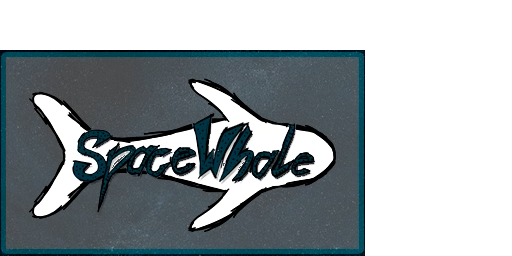
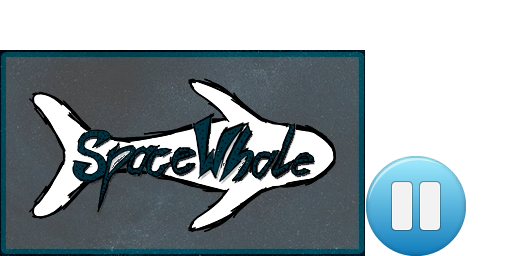
added Pause-Button, but no functionality yet because of troubles with NGUI

Changed region(s): [[0.6875, 0.5938, 0.9375, 1.0]]

diff --git a/Unity 4 Projects/Prototype-v1/Assets/Scripts/Flight/Aircraft.cs b/Unity 4 Projects/Prototype-v1/Assets/Scripts/Flight/Aircraft.cs
@@ -148,9 +148,14 @@ public class Aircraft : MonoBehaviour
 		{
 			itemHit.SetHit(ItemHit.ActiveHit.Bad);
 		}
-		hit.gameObject.collider.enabled = false;
-		hit.gameObject.renderer.material.color = Color.grey;
-		hit.gameObject.transform.localScale = new Vector3(0.9f, 0.9f, 0.9f);
+		
+		Debug.Log(hit.tag);
+		if (hit.tag != "UI")
+		{
+			hit.gameObject.collider.enabled = false;
+			hit.gameObject.renderer.material.color = Color.grey;
+			hit.gameObject.transform.localScale = new Vector3(0.9f, 0.9f, 0.9f);
+		}
 		//hit.gameObject.renderer.enabled = false;
 	}
 	

diff --git a/Unity 4 Projects/Prototype-v1/Assets/Scripts/UI/OnPauseScene.cs b/Unity 4 Projects/Prototype-v1/Assets/Scripts/UI/OnPauseScene.cs
@@ -1,0 +1,11 @@
+using UnityEngine;
+using System.Collections;
+
+public class OnPauseScene : MonoBehaviour {
+
+void OnClick ()
+    {
+		Debug.Log("Pause");
+    	Application.LoadLevel("GameOver");
+    }
+}
